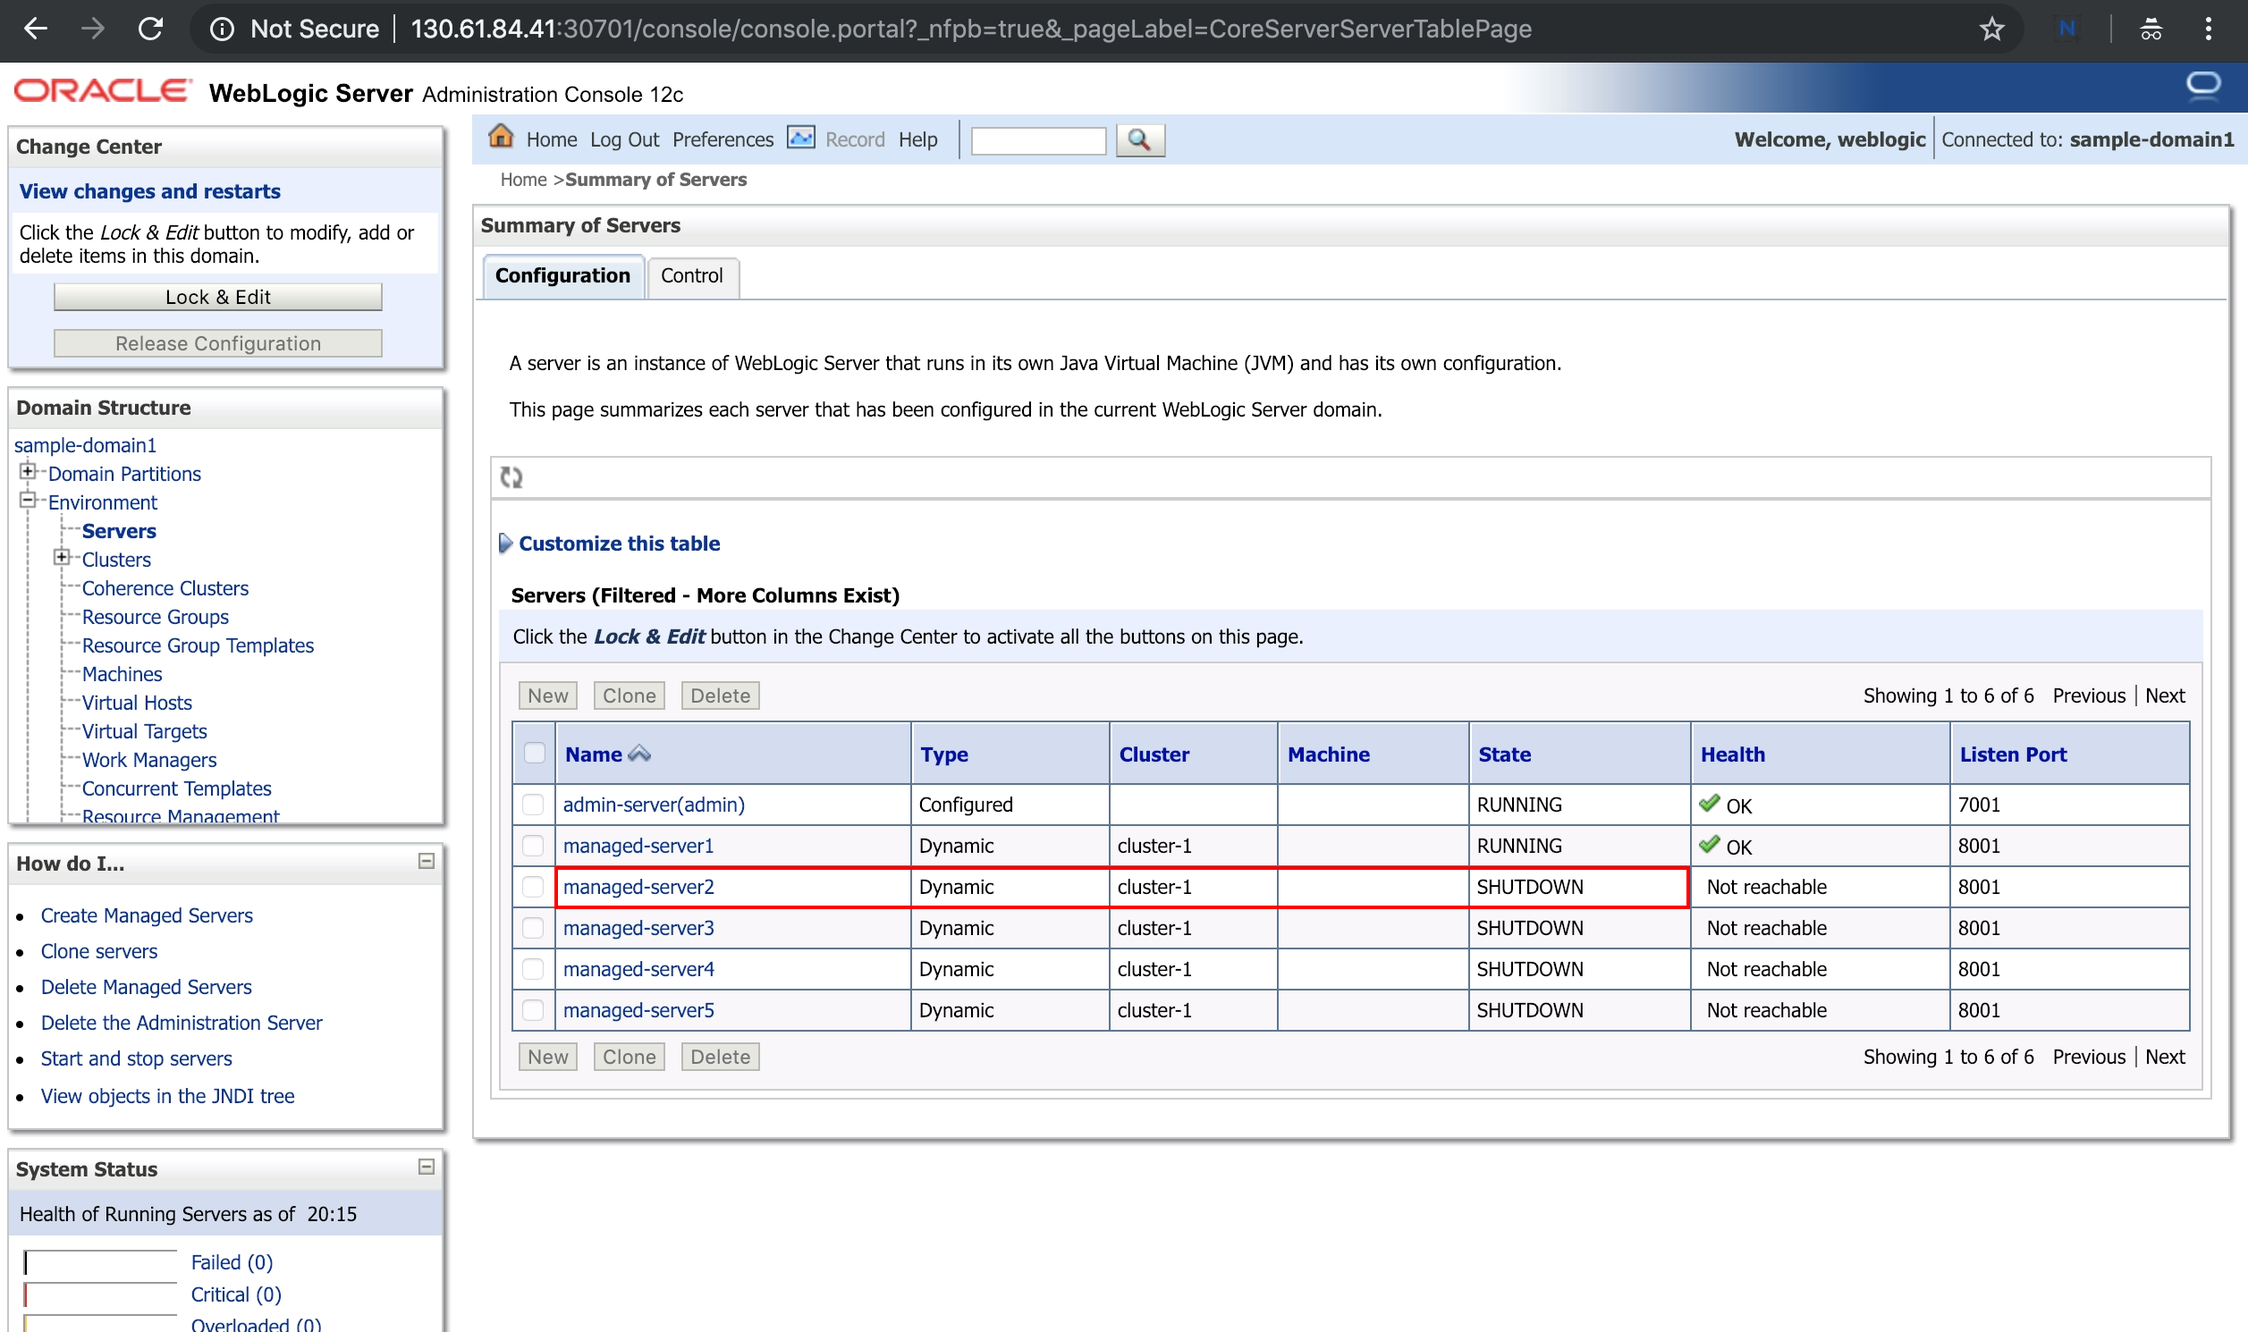
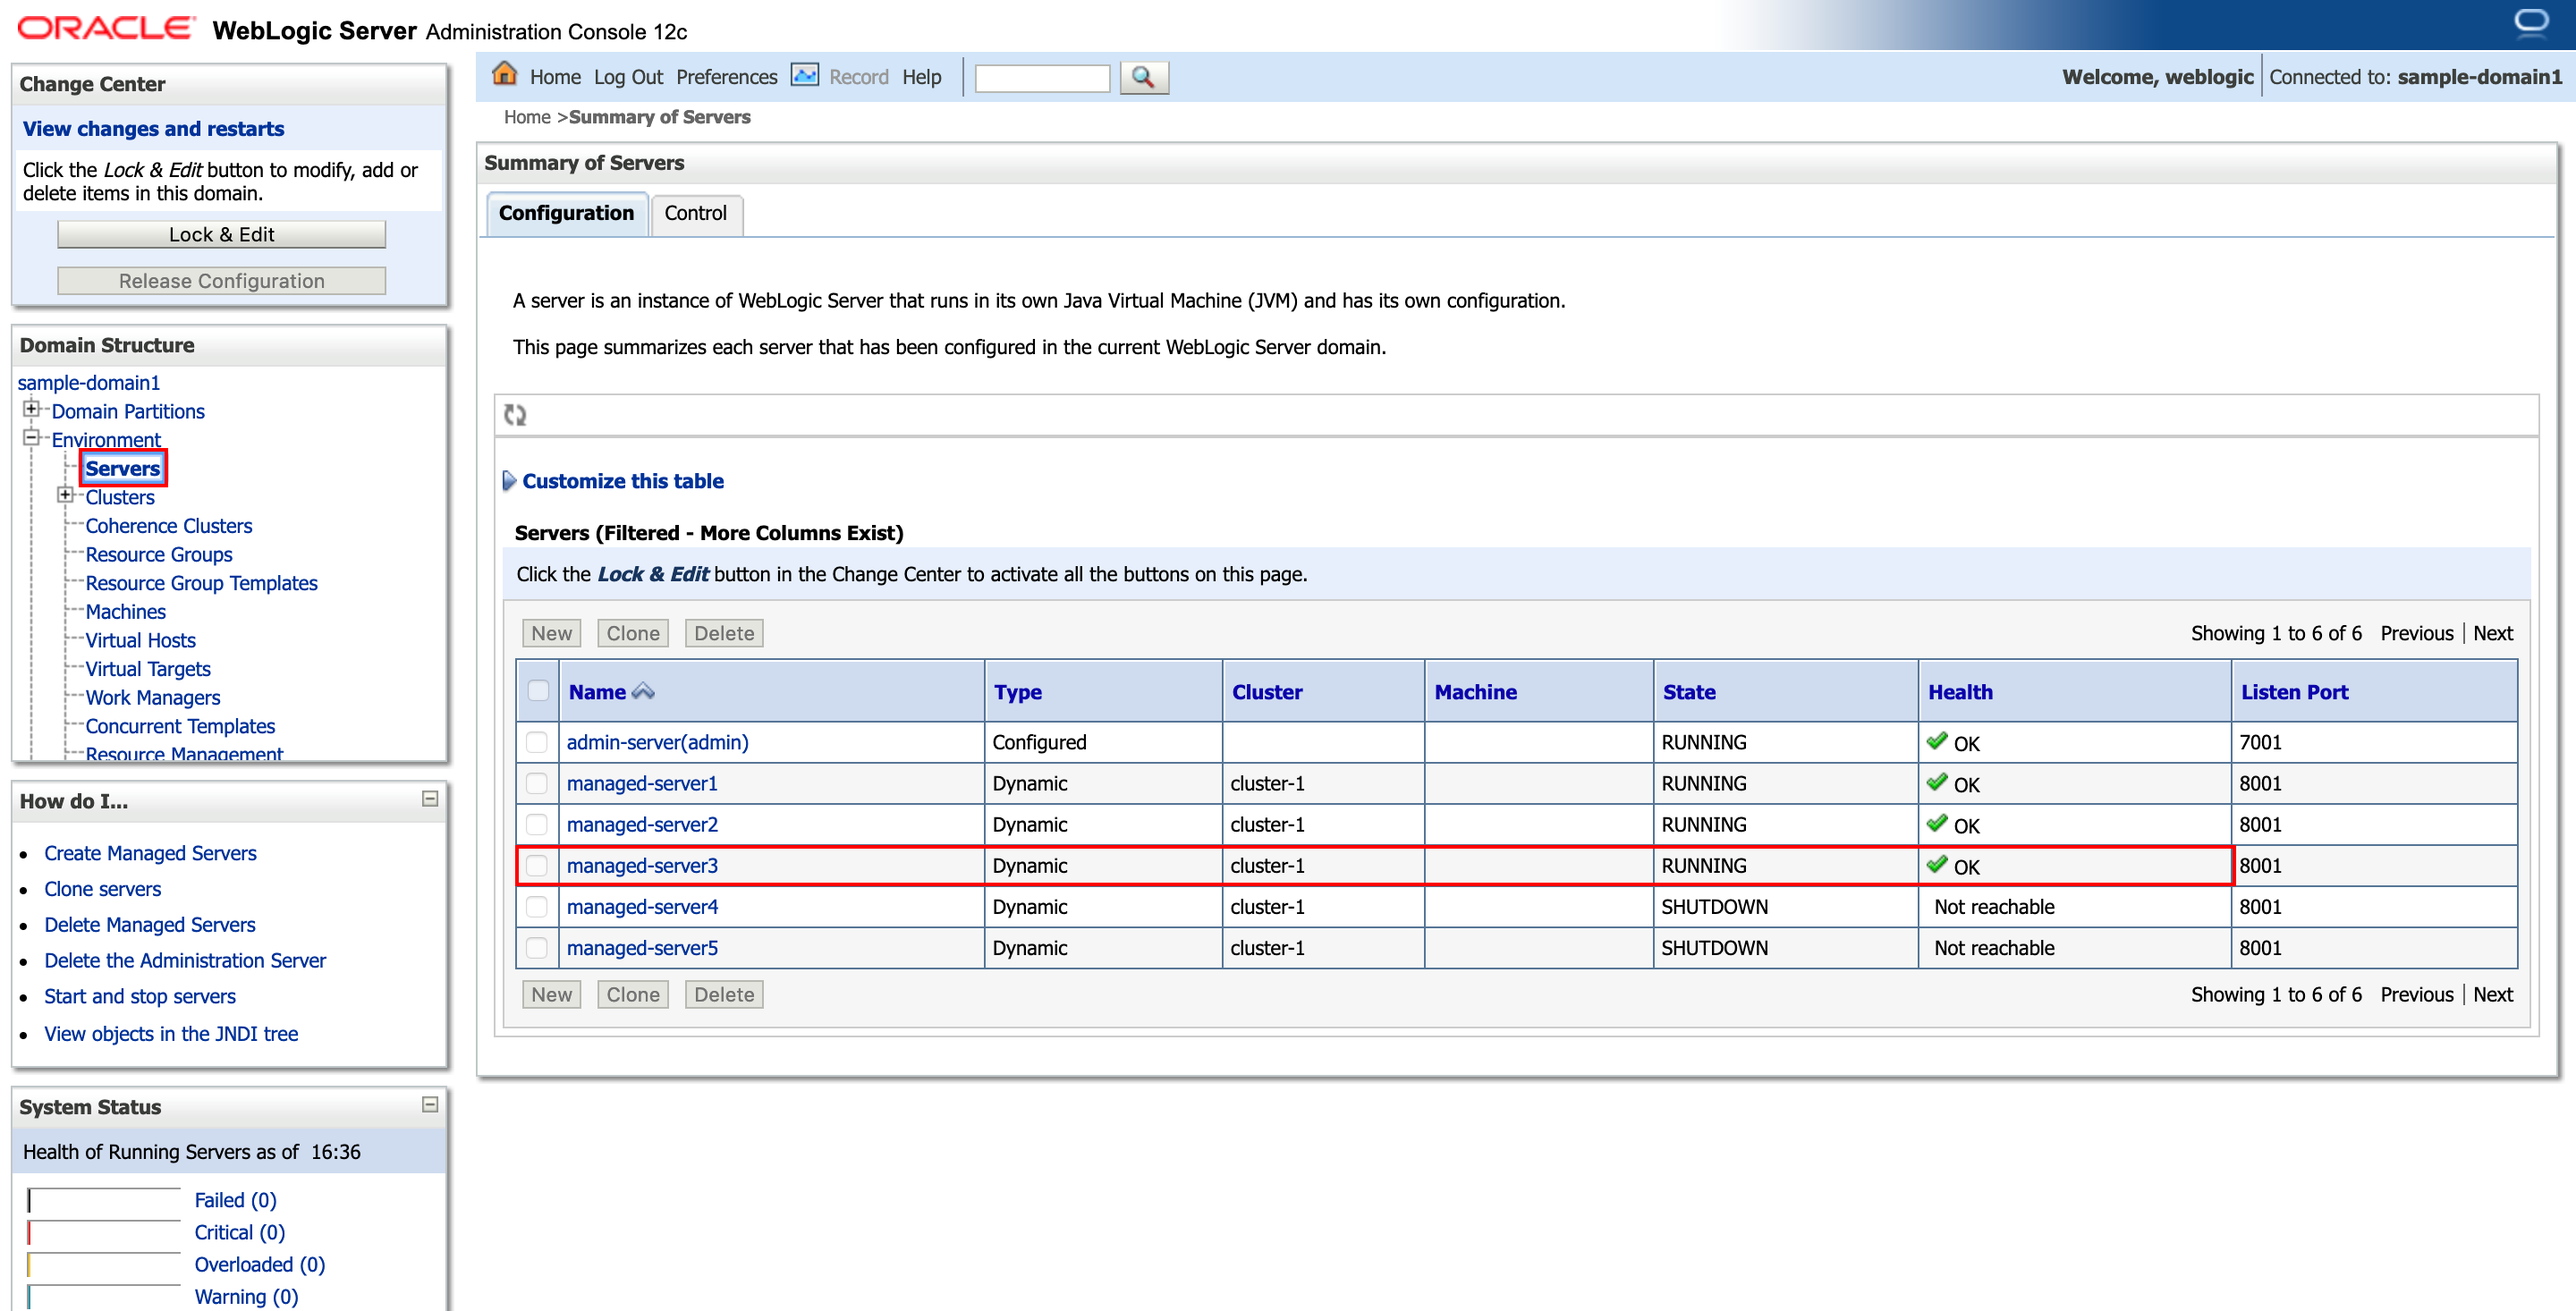
scale and update app modifications

diff --git a/tutorials/update.application.md b/tutorials/update.application.md
@@ -44,9 +44,9 @@ Don't forget the leading spaces to keep the proper indentation.
 
 The `restartVersion` property lets you force the operator to restart servers. It's basically a user-specified string that gets added to new server pods (as a label) so that the operator can tell which servers need to be restarted. If the value is different, then the server pod is old and needs to be restarted. If the value matches, then the server pod has already been restarted.
 
-Each time you want to restart some servers, you need to set restartVersion to a different string (the particular value doesn't matter). The operator will notice the new value and restart the affected servers.
+Each time you want to restart some servers, you need to set `restartVersion` to a different string (the particular value doesn't matter). The operator will notice the new value and restart the affected servers.
 
-When your image build is done apply the domain resource changes:
+When your image build is done and pushed to registry(!) apply the domain resource changes:
 ```
 kubectl apply -f /u01/domain.yaml
 ```
@@ -54,10 +54,14 @@ You can immediately check the status of your servers/pods:
 ```
 $ kubectl get po -n sample-domain1-ns
 NAME                             READY     STATUS        RESTARTS   AGE
-sample-domain1-admin-server      1/1       Terminating   0          12h
-sample-domain1-managed-server1   1/1       Running       0          12h
+sample-domain1-admin-server      1/1       Terminating   0          22m
+sample-domain1-managed-server1   1/1       Running       0          20m
+sample-domain1-managed-server2   1/1       Running       0          21m
+sample-domain1-managed-server3   1/1       Running       0          21m
 ```
-Wait till the restart completes and all pods are ready then check your web application again.
+The operator now performs a rolling server restart one by one. The first one is the *Admin* server than the *Managed* servers. There is a property called `maxUnavailable` on the domain resource which determines how many of the cluster's servers may be taken out of service at a time when doing a rolling restart. It can be specified at the domain and cluster levels and defaults to 1 (that is, by default, clustered servers are restarted one at a time).
+
+During the rolling restart check your web application periodically. If the responding server already restarted then you have to see the change (green fonts) you made on the application. If the server is not yet restarted then it still serves the old version of the application.
 
 `http://ANY_NODE_PUBLIC_IP_ADDRESS:30305/opdemo/?dsname=testDatasource`
 

diff --git a/tutorials/scale.weblogic.md b/tutorials/scale.weblogic.md
@@ -22,7 +22,7 @@ clusters:
   serverStartState: "RUNNING"
   replicas: 2
 ```
-Modify `replicas` to 1 and save changes. Apply the changes using `kubectl`:
+Modify `replicas` to 3 and save changes. Apply the changes using `kubectl`:
 ```
 kubectl apply -f /u01/domain.yaml
 ```
@@ -32,13 +32,14 @@ kubectl get po -n sample-domain1-ns
 NAME                             READY     STATUS        RESTARTS   AGE
 sample-domain1-admin-server      1/1       Running       0          57m
 sample-domain1-managed-server1   1/1       Running       0          56m
-sample-domain1-managed-server2   1/1       Terminating   0          56m
+sample-domain1-managed-server2   1/1       Running       0          55m
+sample-domain1-managed-server3   1/1       Running       0          1m
 ```
-Soon the terminating pod will disappear. You can also check the managed server scaling action using the WebLogic Administration console:
+Soon the managed server 3 will appear and will be ready within a few minutes. You can also check the managed server scaling action using the WebLogic Administration console:
 
 ![alt text](images/scaling/check.on.console.png)
 
-You can edit directly the existing (running) domain resource file by using the `kubectl edit` command. In this case your `domain.yaml` available on your desktop will not reflect the changes of the running domain's resource.
+Note! You can edit directly the existing (running) domain resource file by using the `kubectl edit` command. In this case your `domain.yaml` available on your desktop will not reflect the changes of the running domain's resource.
 ```
 kubectl edit domain DOMAIN_UID -n DOMAIN_NAMESPACE
 ```
